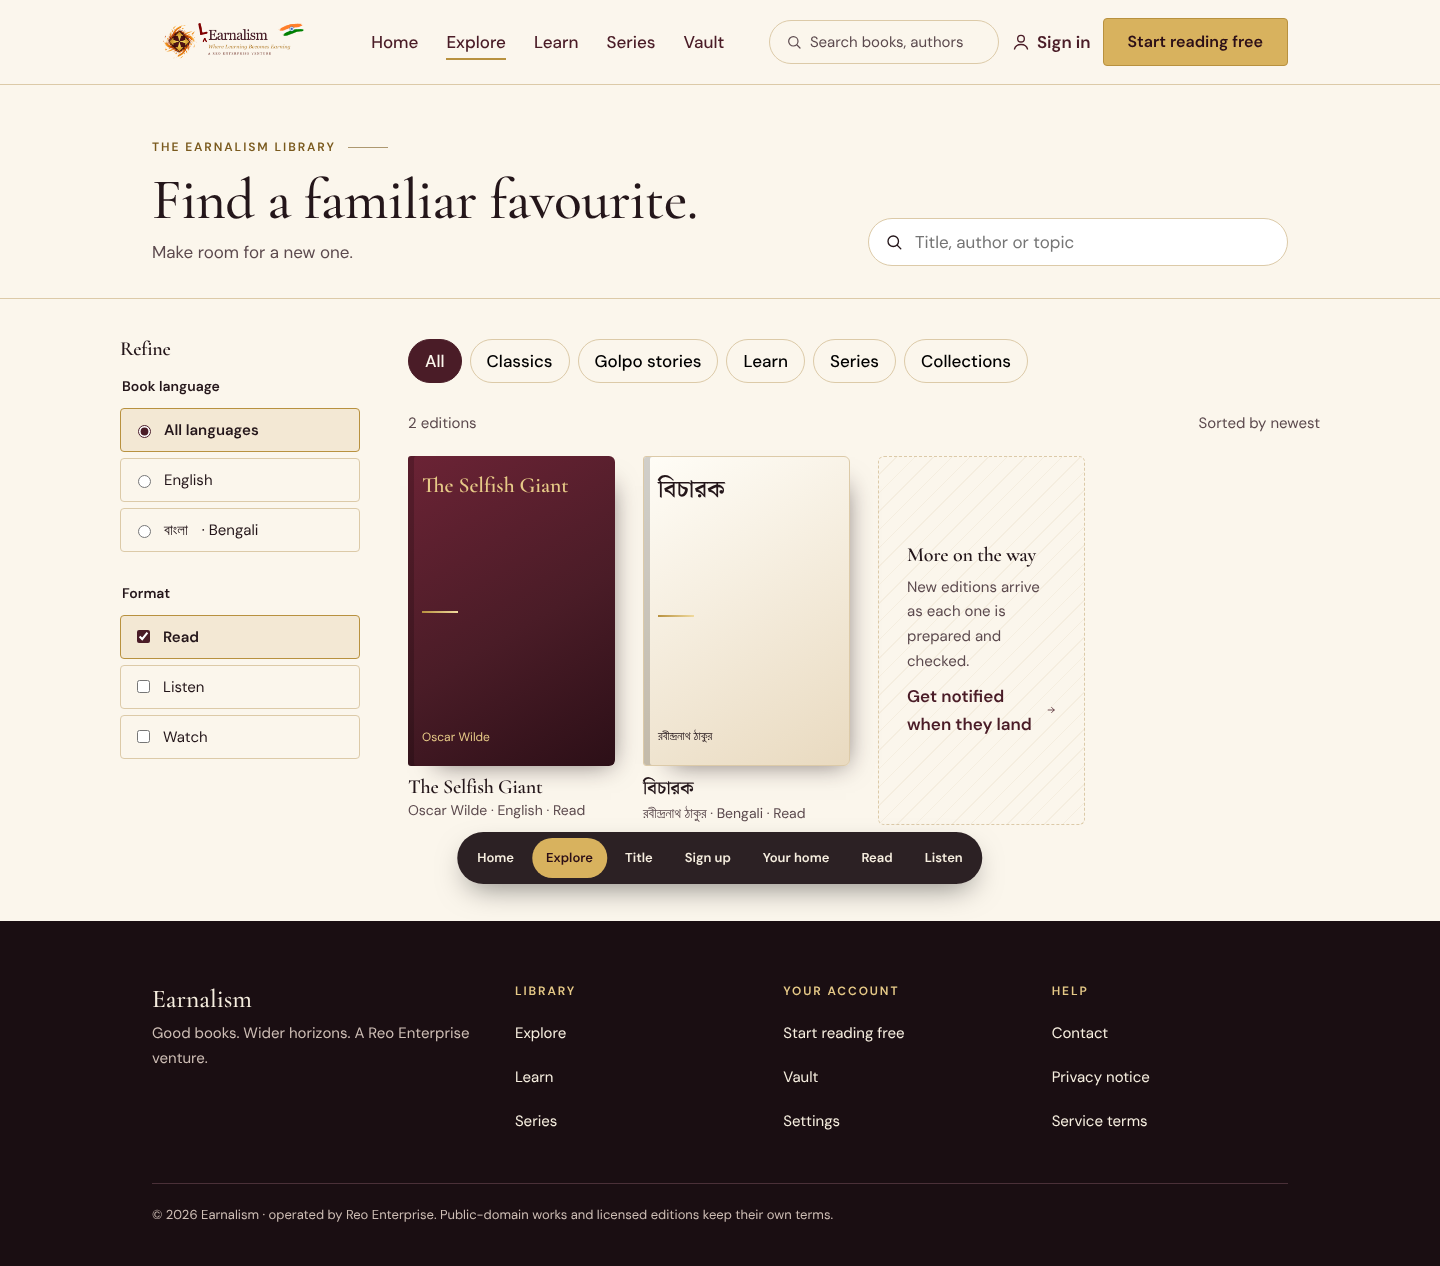
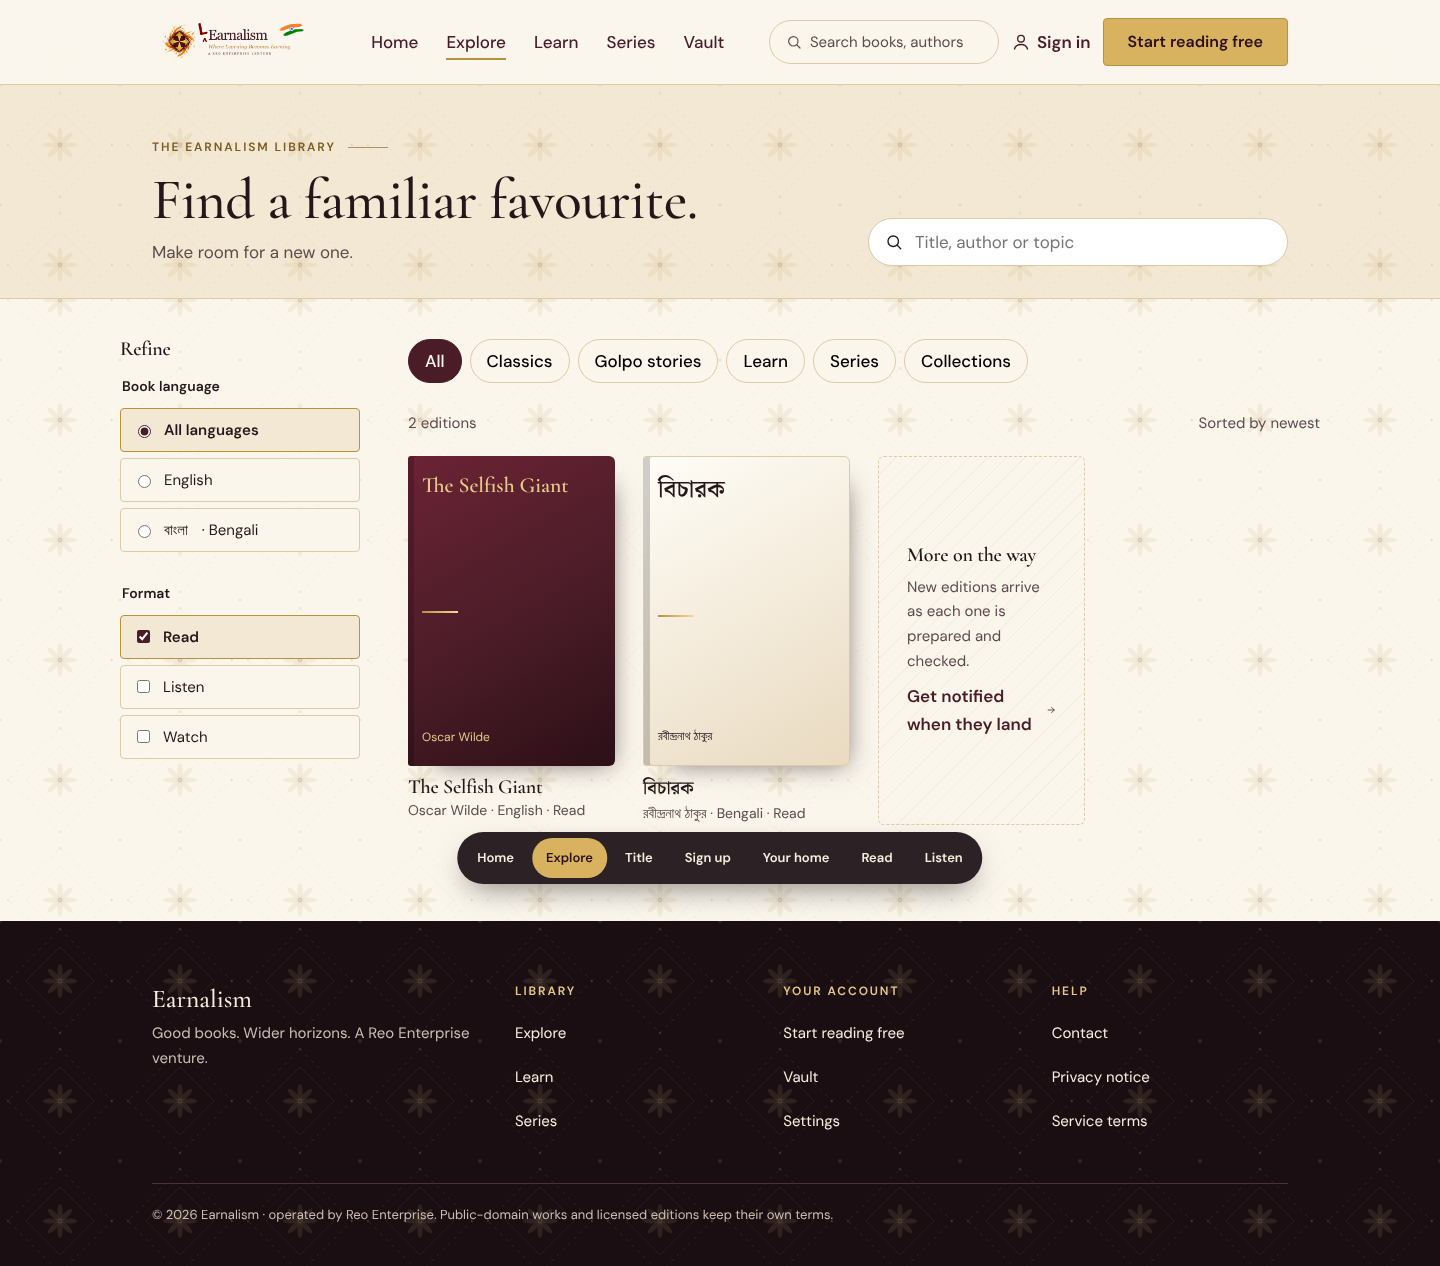
Final design: live-site photography and alpana texture throughout
Replace the painted Read, Listen, Learn, listening-room, chapter band and
quote images with the warm still-life photographs from theearnalism.com.
Add a kantha/alpana tile (from the Maison peacock motifs) and alpana halo
watermarks as a consistent background on every screen; the reading
column stays on plain paper.

Claude-Session: https://claude.ai/code/session_018Zyit9apD5NEqK4Low8btd

diff --git a/docs/design/final/index.html b/docs/design/final/index.html
@@ -182,8 +182,8 @@ section{position:relative}
 
 .quote{position:relative;min-height:260px;display:grid;align-items:center;overflow:hidden;color:var(--ivory)}
 .quote img{position:absolute;inset:0;width:100%;height:100%;object-fit:cover;object-position:50% 60%}
-.quote::before{content:"";position:absolute;inset:0;background:linear-gradient(90deg,rgba(26,14,18,.15),rgba(26,14,18,.75))}
-.quote .wrap{position:relative;text-align:right}
+.quote::before{content:"";position:absolute;inset:0;background:linear-gradient(90deg,rgba(44,15,23,.08),rgba(44,15,23,.78) 72%)}
+.quote img{z-index:0}.quote::before{z-index:1}.quote .wrap{position:relative;z-index:2;text-align:right}
 .quote p{font:italic 500 clamp(1.6rem,3vw,2.3rem)/1.25 var(--display);margin:0 0 0 auto;max-width:28ch}
 
 footer.site{background:var(--night);color:var(--night-soft);padding:64px 0 28px;font-size:.9375rem}
@@ -353,6 +353,27 @@ mark.hl{background:rgba(216,178,94,.38);color:inherit;padding:0 .1em;border-radi
 .review a{color:var(--night-ink);text-decoration:none;font-size:.8125rem;font-weight:600;padding:0 14px;min-height:40px;display:inline-flex;align-items:center;border-radius:999px;white-space:nowrap}
 .review a[aria-current=true]{background:var(--gold);color:var(--burgundy-deep)}
 @media (max-width:900px){.review{top:92px;bottom:auto}}
+
+/* ---------- alpana / kantha texture, applied on every screen ---------- */
+body{background:url(art/alpana-tile.svg),var(--ivory)}
+.hero{background:radial-gradient(70% 90% at 100% 0%,rgba(243,232,212,.92) 0%,transparent 60%),url(art/alpana-tile.svg),var(--ivory);overflow:hidden}
+.hero::before{content:"";position:absolute;width:620px;height:620px;left:-260px;bottom:-260px;background:url(art/alpana-halo.svg) center/contain no-repeat;opacity:.16;pointer-events:none}
+.hero .wrap{position:relative;z-index:1}
+.parchment{background:url(art/alpana-tile.svg),var(--parchment)}
+.dark{background:url(art/alpana-tile-dark.svg),linear-gradient(160deg,var(--burgundy) 0%,var(--burgundy-deep) 100%);overflow:hidden}
+.dark::before{content:"";position:absolute;width:680px;height:680px;right:-240px;top:-240px;background:url(art/alpana-halo.svg) center/contain no-repeat;opacity:.22;pointer-events:none}
+.dark .wrap{position:relative;z-index:1}
+.member-hero{background:radial-gradient(60% 80% at 0% 0%,rgba(243,232,212,.92),transparent 70%),url(art/alpana-tile.svg),var(--ivory)}
+.title-hero{background:url(art/alpana-tile.svg),linear-gradient(180deg,var(--parchment),var(--ivory))}
+.page-head{background:url(art/alpana-tile.svg),var(--parchment)}
+.continue .left{background:url(art/alpana-tile-dark.svg),linear-gradient(160deg,var(--burgundy),var(--burgundy-deep))}
+.night{background:url(art/alpana-tile-dark.svg),radial-gradient(70% 60% at 50% 0%,#3A1A24,var(--night) 70%)}
+footer.site{background:url(art/alpana-tile-dark.svg),var(--night)}
+.reader{background-image:url(art/alpana-tile.svg)}
+.reader[data-theme=ink]{background-image:url(art/alpana-tile-dark.svg)}
+.rtext{background:var(--rbg);margin-top:32px;margin-bottom:32px;border:1px solid var(--rline);border-radius:4px;box-shadow:0 20px 40px -30px rgba(36,22,26,.45)}
+.book,.way,.today,.facts,.coming{background-color:var(--ivory)}
+@media (max-width:640px){.rtext{margin:0;border:0;border-radius:0}}
 </style>
 </head>
 <body>
@@ -438,9 +459,9 @@ mark.hl{background:rgba(216,178,94,.38);color:inherit;padding:0 .1em;border-radi
         <p class="muted" style="margin:0">A spare moment can become a doorway. Pick up a story on the page, hear it told in a quiet voice, or learn one idea at a time — and carry your place from one to the next.</p>
       </div>
       <div class="ways">
-        <a class="way" href="#title"><div class="pic"><img src="art/read-open-book.jpg" alt="" loading="lazy"><span class="mark"><svg aria-hidden="true"><use href="#i-book"/></svg></span></div><div class="body"><h3 class="h3">Read</h3><p>Pages that turn like paper, with highlights, notes and bookmarks that follow you.</p><span class="link">Open a classic <svg width="18" height="18" aria-hidden="true"><use href="#i-arrow"/></svg></span></div></a>
-        <a class="way" href="#listen"><div class="pic"><img src="../../../static/maison/art/hero.png" alt="" loading="lazy" style="object-position:22% 30%"><span class="mark"><svg aria-hidden="true"><use href="#i-head"/></svg></span></div><div class="body"><h3 class="h3">Listen</h3><p>Stories told aloud, chapter by chapter, with speed control and a sleep timer.</p><span class="link">Enter the listening room <svg width="18" height="18" aria-hidden="true"><use href="#i-arrow"/></svg></span></div></a>
-        <a class="way" href="#explore"><div class="pic"><img src="../../../static/maison/art/river.png" alt="" loading="lazy"><span class="mark"><svg aria-hidden="true"><use href="#i-play"/></svg></span></div><div class="body"><h3 class="h3">Learn</h3><p>Knowledge series of short video lessons with notes, subtitles and a quick check.</p><span class="link">See the series <svg width="18" height="18" aria-hidden="true"><use href="#i-arrow"/></svg></span></div></a>
+        <a class="way" href="#title"><div class="pic"><img src="art/read-desk.jpg" alt="" loading="lazy"><span class="mark"><svg aria-hidden="true"><use href="#i-book"/></svg></span></div><div class="body"><h3 class="h3">Read</h3><p>Pages that turn like paper, with highlights, notes and bookmarks that follow you.</p><span class="link">Open a classic <svg width="18" height="18" aria-hidden="true"><use href="#i-arrow"/></svg></span></div></a>
+        <a class="way" href="#listen"><div class="pic"><img src="art/listening-room.jpg" alt="" loading="lazy" style="object-position:40% 60%"><span class="mark"><svg aria-hidden="true"><use href="#i-head"/></svg></span></div><div class="body"><h3 class="h3">Listen</h3><p>Stories told aloud, chapter by chapter, with speed control and a sleep timer.</p><span class="link">Enter the listening room <svg width="18" height="18" aria-hidden="true"><use href="#i-arrow"/></svg></span></div></a>
+        <a class="way" href="#explore"><div class="pic"><img src="art/learn-desk.jpg" alt="" loading="lazy" style="object-position:70% 60%"><span class="mark"><svg aria-hidden="true"><use href="#i-play"/></svg></span></div><div class="body"><h3 class="h3">Learn</h3><p>Knowledge series of short video lessons with notes, subtitles and a quick check.</p><span class="link">See the series <svg width="18" height="18" aria-hidden="true"><use href="#i-arrow"/></svg></span></div></a>
       </div>
     </div>
   </section>
@@ -466,7 +487,7 @@ mark.hl{background:rgba(216,178,94,.38);color:inherit;padding:0 .1em;border-radi
 
   <section class="band parchment" aria-labelledby="h-listen">
     <div class="wrap listen">
-      <figure class="frame" style="margin:0"><img src="../../../static/maison/art/river.png" alt="Illustration: a wooden boat resting on a still river at sunset" loading="lazy"></figure>
+      <figure class="frame" style="margin:0"><img src="art/listening-room.jpg" alt="Headphones resting on an open book beside a lamp on a wooden desk" loading="lazy"></figure>
       <div>
         <p class="kicker">The listening room</p>
         <h2 class="h2" id="h-listen">Some stories stay with you in voice.</h2>
@@ -508,12 +529,12 @@ mark.hl{background:rgba(216,178,94,.38);color:inherit;padding:0 .1em;border-radi
         </ul>
         <div style="display:flex;flex-wrap:wrap;gap:12px"><a class="btn btn-gold" href="#signup">Start reading free</a><a class="btn btn-line" href="#explore">Explore the library first</a></div>
       </div>
-      <div class="gilt"><img src="../../../static/maison/art/gold-pages.jpg" alt="" loading="lazy"></div>
+      <div class="gilt"><img src="art/bookshelf.jpg" alt="" loading="lazy"></div>
     </div>
   </section>
 
   <section class="quote" aria-label="A reflection from the reading room">
-    <img src="../../../static/maison/art/river.png" alt="" loading="lazy">
+    <img src="art/river-quote.jpg" alt="">
     <div class="wrap"><p>“A good story has a gentle way of slowing a busy day.”</p></div>
   </section>
 </div>
@@ -633,7 +654,7 @@ mark.hl{background:rgba(216,178,94,.38);color:inherit;padding:0 .1em;border-radi
         </div>
         <div class="right"><img src="../../../static/maison/art/hero.png" alt="" ></div>
       </div>
-      <a class="today" href="#explore"><img src="../../../static/maison/art/river.png" alt=""><div><span class="k">Next on your shelf</span><h3 lang="bn" style="font-family:var(--bn);font-size:1.3rem">বিচারক</h3><span class="muted" style="font-size:.9375rem">Rabindranath Tagore · Bengali · Read</span></div><svg aria-hidden="true"><use href="#i-arrow"/></svg></a>
+      <a class="today" href="#explore"><img src="art/bookshelf.jpg" alt=""><div><span class="k">Next on your shelf</span><h3 lang="bn" style="font-family:var(--bn);font-size:1.3rem">বিচারক</h3><span class="muted" style="font-size:.9375rem">Rabindranath Tagore · Bengali · Read</span></div><svg aria-hidden="true"><use href="#i-arrow"/></svg></a>
     </div>
   </section>
   <section class="band parchment" aria-labelledby="h-vault" style="padding-top:72px">
@@ -682,7 +703,7 @@ mark.hl{background:rgba(216,178,94,.38);color:inherit;padding:0 .1em;border-radi
 <div class="screen night" id="screen-listen" data-focus="1" hidden>
   <div class="rbar"><a class="ibtn" href="#member" aria-label="Back"><svg aria-hidden="true"><use href="#i-back"/></svg></a><span class="t">The listening room</span><a class="switch" href="#read" style="border-color:var(--night-line);color:var(--night-ink)"><svg aria-hidden="true"><use href="#i-book"/></svg>Read</a></div>
   <div class="player">
-    <figure class="frame" style="margin:0"><img src="../../../static/maison/art/river.png" alt="Cover art: a boat on a river at sunset"></figure>
+    <figure class="frame" style="margin:0"><img src="art/listening-room.jpg" alt="Headphones resting on an open book on a wooden desk"></figure>
     <div>
       <p class="kicker">Chapter 2 · The long winter</p>
       <h2>The Selfish Giant</h2>
